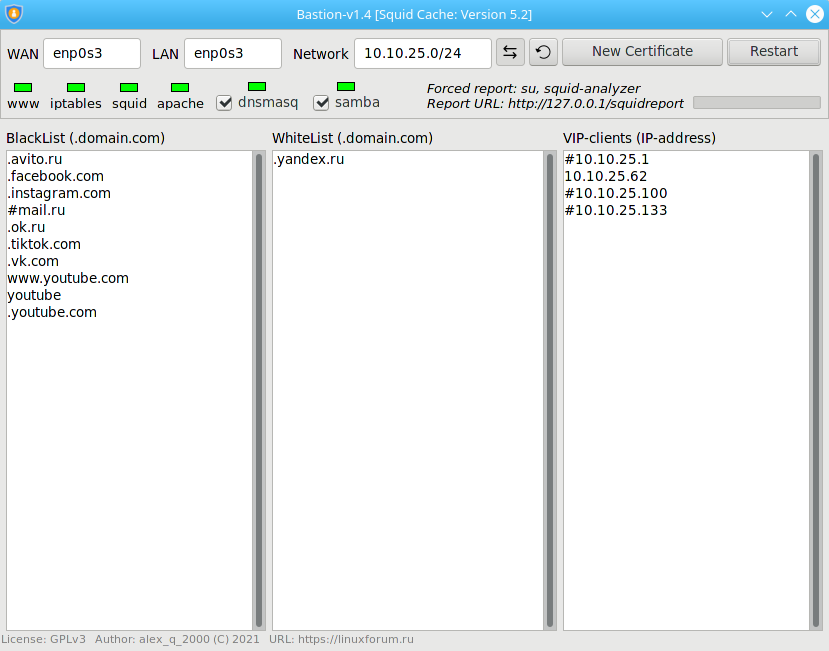
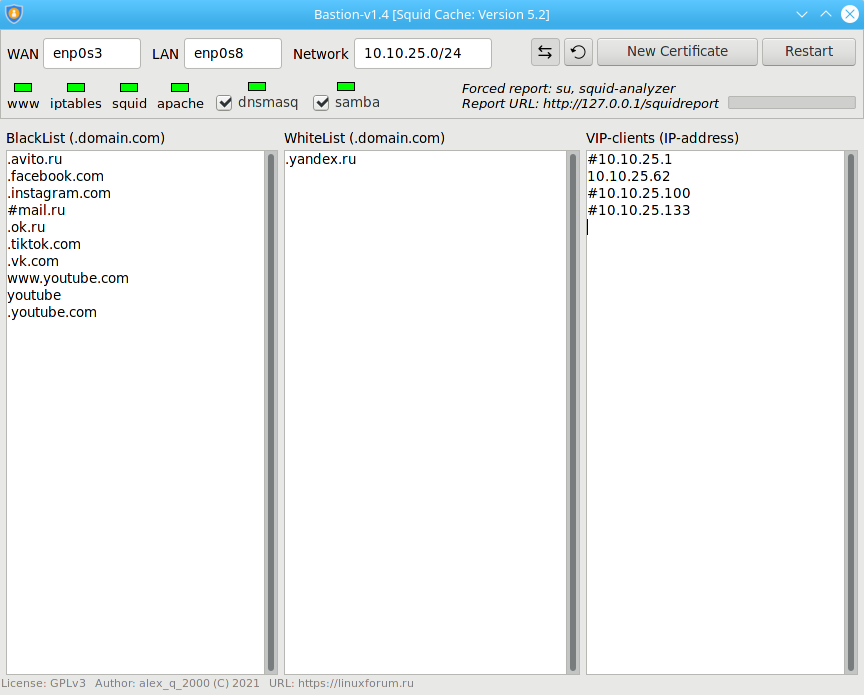
v1.4 + IP Forwarding On/Off

Changed region(s): [[0.0, 0.0, 1.0, 1.0], [0.965, 0.2151, 0.9952, 0.9831]]

diff --git a/README.md b/README.md
@@ -19,4 +19,4 @@ Note:
 + When `samba` is enabled, a shared folder `/usr/local/Common` is created with a `.recycle` bin, which is cleaned every month. The `\\LAN-IP\Common` folder can be connected as a shared disk
 + If you need to use only the filtering proxy, change in the file `/etc/squid/bastion.sh`: `sysctl -w net.ipv4.ip_forward=1` to `sysctl -w net.ipv4.ip_forward=0` and click "Restart"
 
-![](https://github.com/AKotov-dev/bastion/blob/main/ScreenShot1.png)
+![](https://github.com/AKotov-dev/bastion/blob/main/ScreenShot.png)
